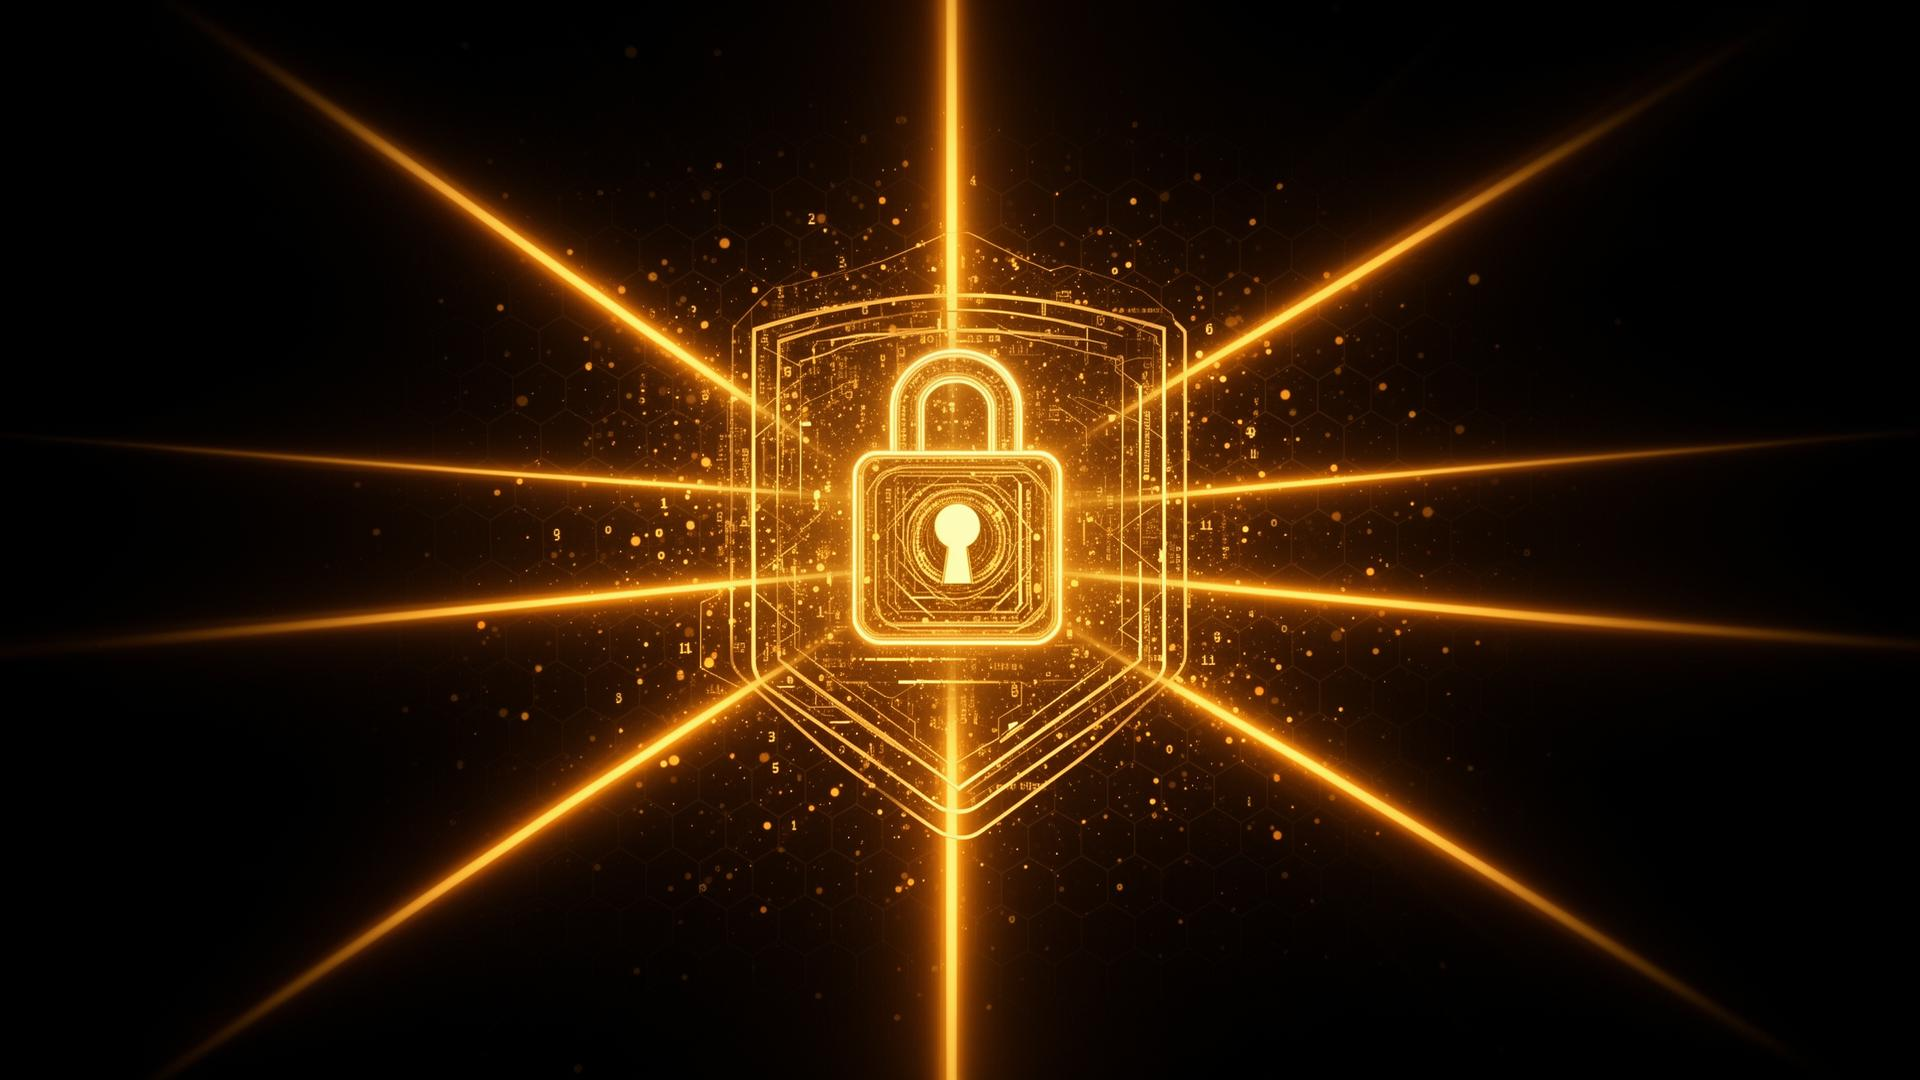
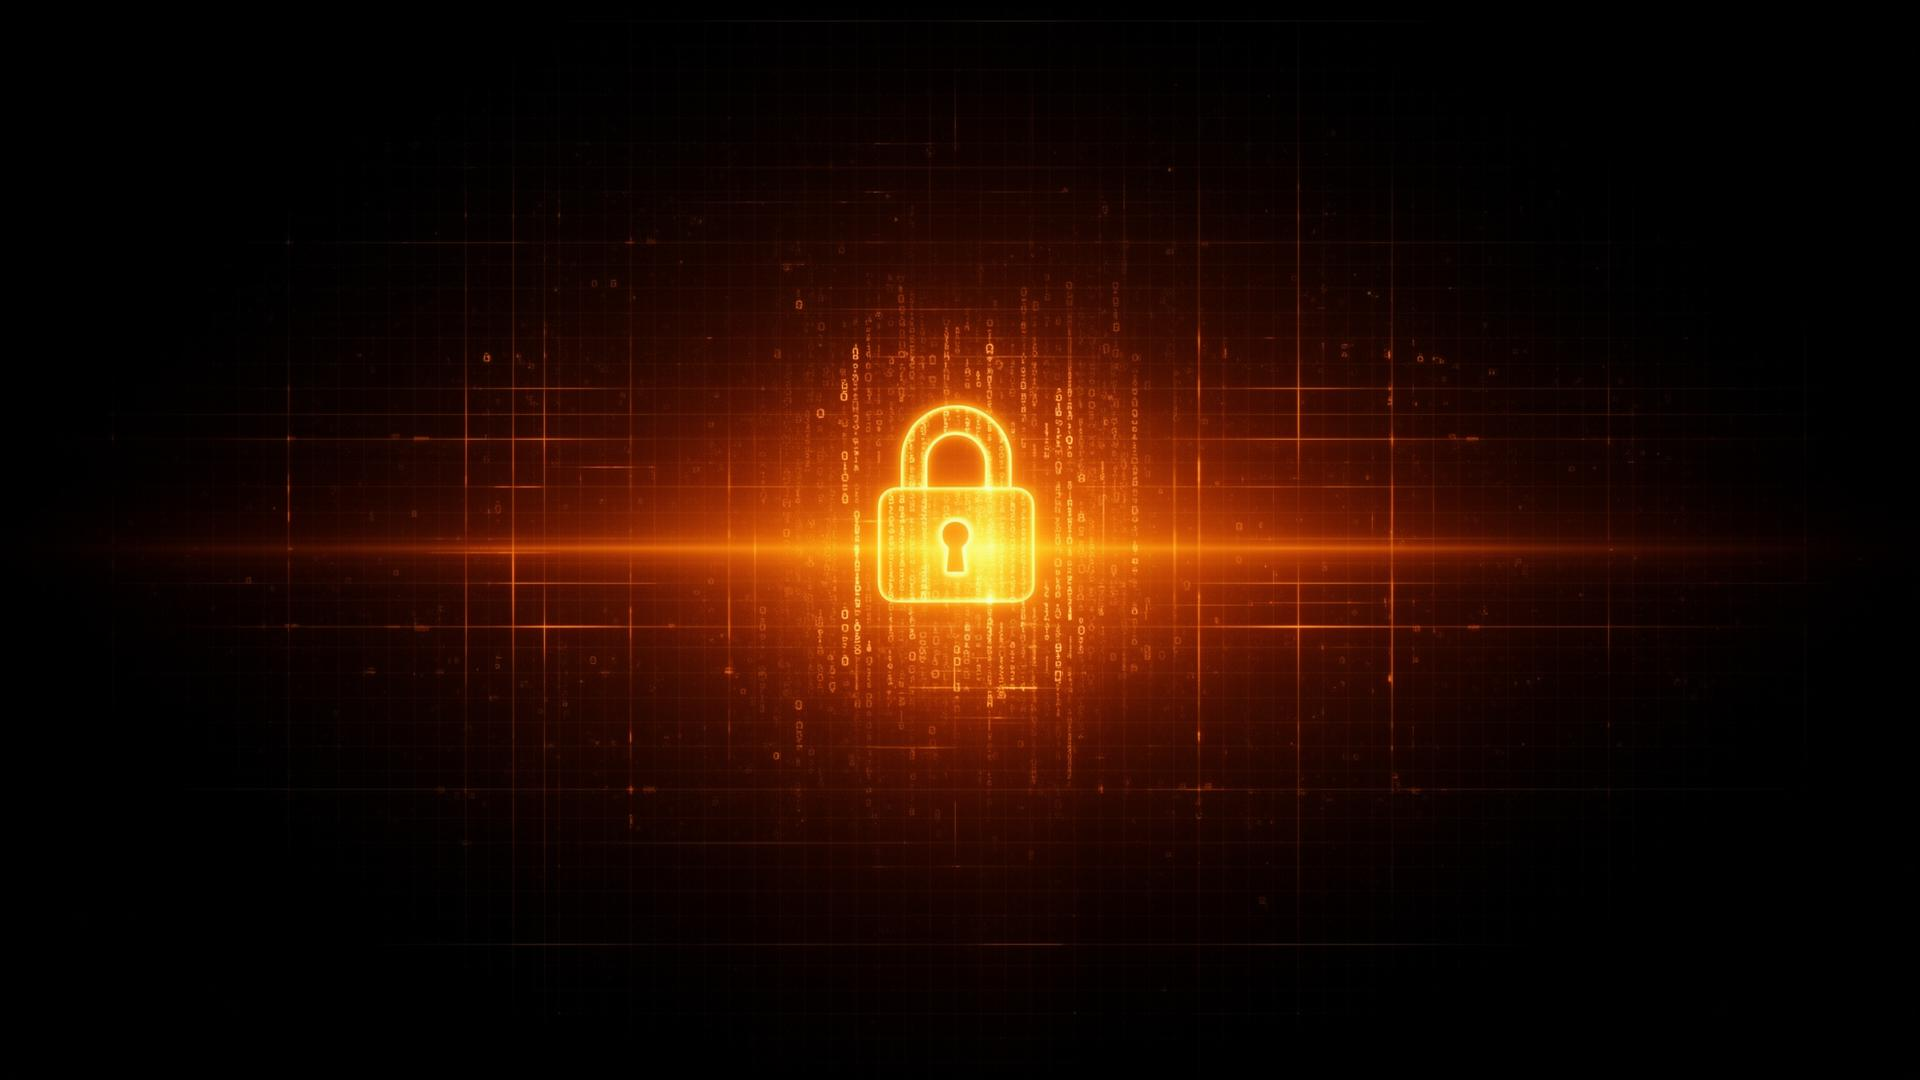
Changes

Changed region(s): [[0.0625, 0.0, 1.0, 1.0], [0.875, 0.9167, 0.9062, 0.9472], [0.0938, 0.9472, 0.125, 0.9778]]

diff --git a/src/pages/safesuite/SafeSuitePass.tsx b/src/pages/safesuite/SafeSuitePass.tsx
@@ -17,6 +17,7 @@ import { CheckCircle2, X, Lock, Shield } from 'lucide-react';
 import { motion, AnimatePresence } from 'framer-motion';
 import { AnimatedHeader, GlowContainer, SAFESUITE_THEMES } from '@/components/safesuite/SafeSuiteEffects';
 import safepassLogo from '@/assets/safepass-logo.png';
+import heroSafepassBg from '@/assets/hero-safepass-bg.jpg';
 
 export default function SafeSuitePass() {
   const [searchParams, setSearchParams] = useSearchParams();
@@ -90,7 +91,20 @@ export default function SafeSuitePass() {
 
   return (
     <FeatureGate feature="safepass">
-      <div className="min-h-screen bg-[#0a0a0a] space-y-6 p-6 -m-6">
+      <div 
+        className="min-h-screen space-y-6 p-6 -m-6 relative"
+        style={{
+          backgroundImage: `url(${heroSafepassBg})`,
+          backgroundSize: 'cover',
+          backgroundPosition: 'center',
+          backgroundAttachment: 'fixed'
+        }}
+      >
+        {/* Dark overlay for readability */}
+        <div className="absolute inset-0 bg-black/70 backdrop-blur-sm" />
+        
+        {/* Content wrapper */}
+        <div className="relative z-10 space-y-6">
         <AnimatePresence>
           {showExtensionBanner && (
             <motion.div
@@ -191,6 +205,7 @@ export default function SafeSuitePass() {
             </motion.div>
           )}
         </AnimatePresence>
+        </div>
       </div>
     </FeatureGate>
   );
